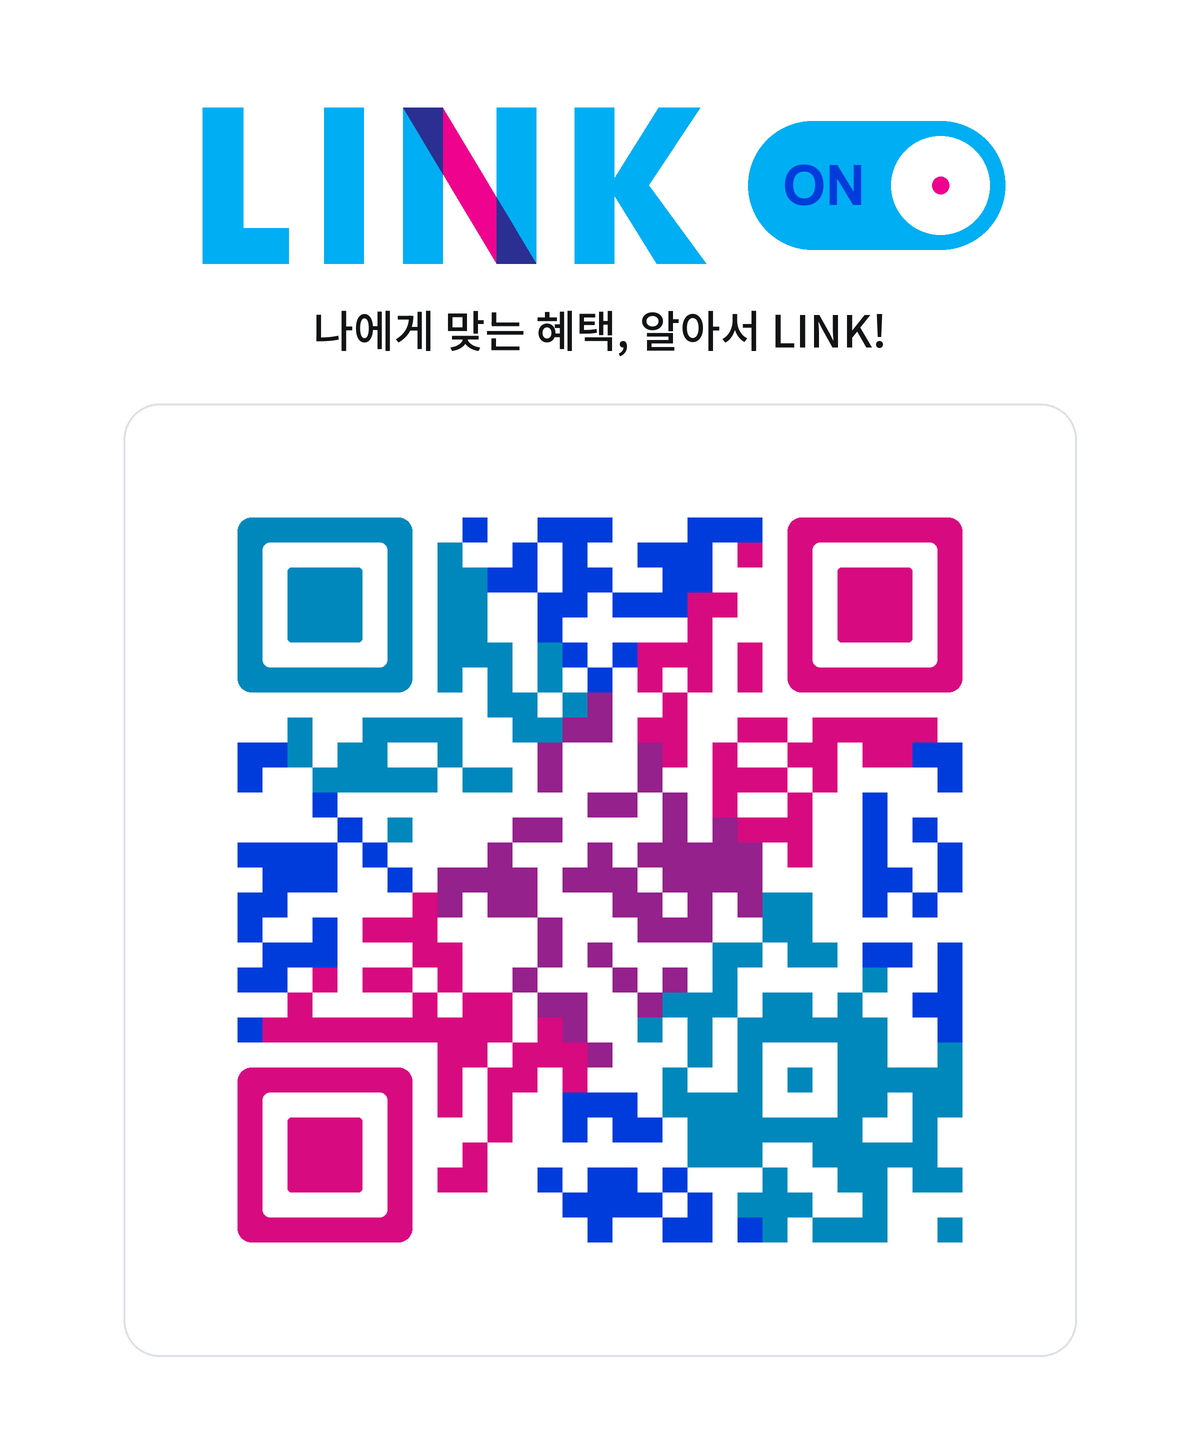
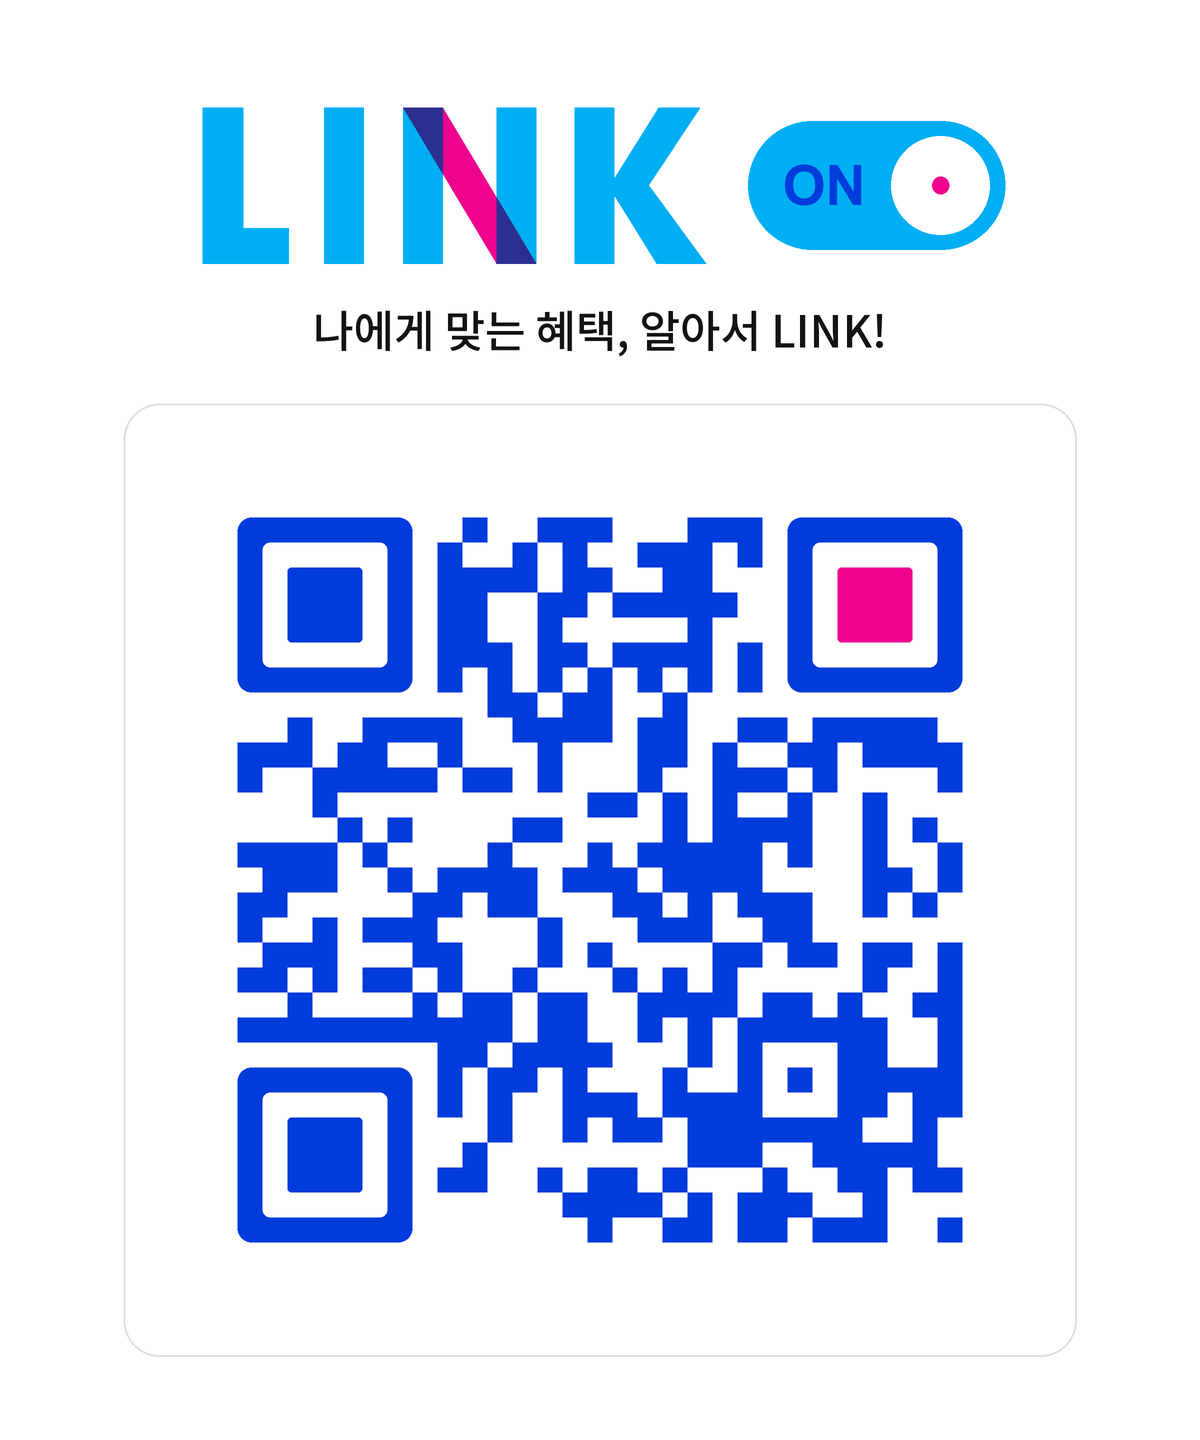
design: simplify QR to blue with one magenta accent

Changed region(s): [[0.185, 0.3438, 0.8017, 0.875]]

diff --git a/scripts/create-qr.py b/scripts/create-qr.py
@@ -37,15 +37,9 @@ d.text((600*S,330*S),'나에게 맞는 혜택, 알아서 LINK!',font=font,fill='
 qr=qrcode.QRCode(error_correction=qrcode.constants.ERROR_CORRECT_H,border=4)
 qr.add_data('https://link-on.kro.kr/');qr.make(fit=True)
 m=qr.get_matrix();n=len(m);unit=25;startx=(W-n*unit)/2;starty=880-n*unit/2
-# Two solid diagonal ribbons cross in the QR, with a distinct magenta overlap.
-# Darker brand-family tones keep the code readable on white without gradients.
-def module_color(row,col):
-    cyan=abs(row-col)<=7
-    pink=abs(row+col-(n-1))<=7
-    if cyan and pink:return '#94218C'
-    if cyan:return '#0088BC'
-    if pink:return '#D70A80'
-    return '#003CDC'
+# Uniform action blue, with one magenta accent in the upper-right finder.
+blue='#003CDC'
+magenta='#EF028D'
 
 # Keep the full four-module quiet zone inside the fine neutral frame.
 pad=14
@@ -57,14 +51,14 @@ for row,line in enumerate(m):
  for col,on in enumerate(line):
   if not on:continue
   if any(r<=row<r+7 and c<=col<c+7 for r,c in finders):continue
-  color=module_color(row,col)
+  color=blue
   x,y=(startx+col*unit)*S,(starty+row*unit)*S
   d.rectangle((x,y,x+unit*S-1,y+unit*S-1),fill=color)
 # Soft finder corners echo the rounded app-icon silhouette; no logo covers data.
 for row,col in finders:
  x,y=(startx+col*unit)*S,(starty+row*unit)*S
- color=module_color(row+3,col+3)
- for inset,fill,radius in ((0,color,.55),(1,'white',.3),(2,color,.15)):
+ center=magenta if (row,col)==(4,n-11) else blue
+ for inset,fill,radius in ((0,blue,.55),(1,'white',.3),(2,center,.15)):
   d.rounded_rectangle((x+inset*unit*S,y+inset*unit*S,
                        x+(7-inset)*unit*S-1,y+(7-inset)*unit*S-1),
                       radius=radius*unit*S,fill=fill)

diff --git a/CHANGELOG.md b/CHANGELOG.md
@@ -1,5 +1,10 @@
 # 변경 기록
 
+## QR 컬러 정리 — 2026-10-30
+
+- QR을 삼성카드 블루로 통일하고 오른쪽 위 인식 사각형의 중앙만 마젠타로 강조했습니다.
+- 로고·소개·크기·배치·회색 테두리는 유지했습니다. 1200·600·300px 컬러·흑백 이미지의 QR 인식을 확인했습니다.
+
 ## QR 교차 컬러 적용 — 2026-10-30
 
 - QR 패턴에 블루·핑크의 교차와 마젠타 겹침을 단색으로 표현했습니다.
